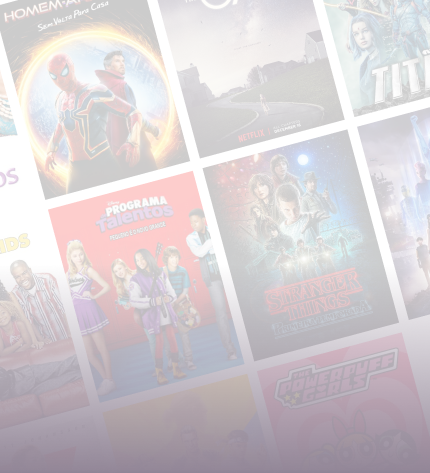
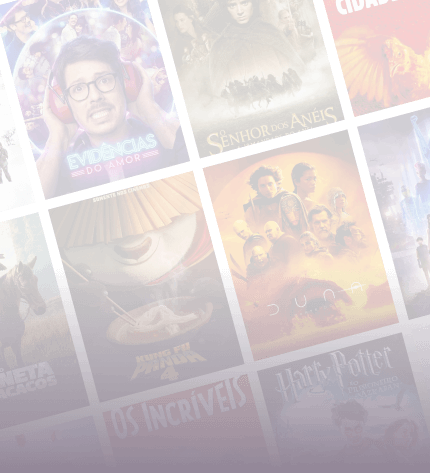
removidas imagens da pasta background, filtros corrigidos para poder funcionar com usuário deslogado

Changed region(s): [[0.0, 0.0, 1.0, 0.7696], [0.6349, 0.0, 0.6953, 0.0296], [0.2116, 0.6808, 0.2419, 0.7104]]

diff --git a/src/components/modais/filtros/index.jsx b/src/components/modais/filtros/index.jsx
@@ -31,11 +31,15 @@ const ModalFiltros = ({ onClose, user, onSelectMovie }) => {
   const [selectedCountry, setSelectedCountry] = useState(""); // Estado para armazenar o país selecionado
   const [assistir, setAssistir] = useState({});
   const [visto, setVisto] = useState({}); // Exemplo de definição
+  const isLoggedIn = Boolean(user);
 
   // define se desktop ou mobile
   const isMobile = useIsMobile();
 
   useEffect(() => {
+    const controller = new AbortController(); // Criar o controlador
+    const { signal } = controller; // Extrair o sinal
+
     const fetchCertifications = async () => {
       try {
         const apiKey = "c95de8d6070dbf1b821185d759532f05";
@@ -43,7 +47,8 @@ const ModalFiltros = ({ onClose, user, onSelectMovie }) => {
           "https://api.themoviedb.org/3/certification/movie/list";
 
         const response = await fetch(
-          `${certificationEndpoint}?api_key=${apiKey}&language=pt-BR&region=BR`
+          `${certificationEndpoint}?api_key=${apiKey}&language=pt-BR&region=BR`,
+          { signal }
         );
         const data = await response.json();
 
@@ -56,6 +61,9 @@ const ModalFiltros = ({ onClose, user, onSelectMovie }) => {
     };
 
     fetchCertifications();
+    return () => {
+      controller.abort(); // Abortar requisições pendentes quando o componente for desmontado
+    };
   }, []);
 
   const fetchMoviesByCertification = async (certification) => {
@@ -323,7 +331,7 @@ const ModalFiltros = ({ onClose, user, onSelectMovie }) => {
 
   // Função para aplicar filtros
   const aplicarFiltro = async () => {
-    const { visto, assistir } = user;
+    const { visto, assistir } = user || {};
     const filters = [];
     const url = buildUrl();
     console.log("URL da requisição:", url);
@@ -418,54 +426,58 @@ const ModalFiltros = ({ onClose, user, onSelectMovie }) => {
             ref={modalRef}
             className={`${styles.contModal} ${closing && styles.close}`}
           >
-            {isMobile ? null : (
-              <div className={styles.tituloFiltros}>
-                <h2>Filtros</h2>
-              </div>
-            )}
-            <div className={styles.separador}>
-              <h3>Exibir filmes que</h3>
+            {isLoggedIn && (
+              <>
+                {isMobile ? null : (
+                  <div className={styles.tituloFiltros}>
+                    <h2>Filtros</h2>
+                  </div>
+                )}
+                <div className={styles.separador}>
+                  <h3>Exibir filmes que</h3>
 
-              <div className={styles.seletor}>
-                <div className={styles.opcao}>
-                  <input type="radio" id="todos" name="status" />
-                  <label htmlFor="todos">Todos</label>
+                  <div className={styles.seletor}>
+                    <div className={styles.opcao}>
+                      <input type="radio" id="todos" name="status" />
+                      <label htmlFor="todos">Todos</label>
+                    </div>
+                    <div className={styles.opcao}>
+                      <input
+                        type="radio"
+                        id="NaoAssisti"
+                        name="status"
+                        value="NaoAssisti"
+                        onChange={() => setSelectedStatus("NaoAssisti")}
+                        checked={selectedStatus === "NaoAssisti"}
+                      />
+                      <label htmlFor="NaoAssisti">Quero assistir</label>
+                    </div>
+                    <div className={styles.opcao}>
+                      <input
+                        type="radio"
+                        id="JaAssisti"
+                        name="status"
+                        value="JaAssisti"
+                        onChange={() => setSelectedStatus("JaAssisti")}
+                        checked={selectedStatus === "JaAssisti"}
+                      />
+                      <label htmlFor="JaAssisti">Já assisti</label>
+                    </div>
+                    <div className={styles.opcao}>
+                      <input
+                        type="radio"
+                        id="favoritos"
+                        name="status"
+                        value="favoritos"
+                        onChange={() => setSelectedStatus("favoritos")}
+                        checked={selectedStatus === "favoritos"}
+                      />
+                      <label htmlFor="favoritos">Meus favoritos</label>
+                    </div>
+                  </div>
                 </div>
-                <div className={styles.opcao}>
-                  <input
-                    type="radio"
-                    id="NaoAssisti"
-                    name="status"
-                    value="NaoAssisti"
-                    onChange={() => setSelectedStatus("NaoAssisti")}
-                    checked={selectedStatus === "NaoAssisti"}
-                  />
-                  <label htmlFor="NaoAssisti">Quero assistir</label>
-                </div>
-                <div className={styles.opcao}>
-                  <input
-                    type="radio"
-                    id="JaAssisti"
-                    name="status"
-                    value="JaAssisti"
-                    onChange={() => setSelectedStatus("JaAssisti")}
-                    checked={selectedStatus === "JaAssisti"}
-                  />
-                  <label htmlFor="JaAssisti">Já assisti</label>
-                </div>
-                <div className={styles.opcao}>
-                  <input
-                    type="radio"
-                    id="favoritos"
-                    name="status"
-                    value="favoritos"
-                    onChange={() => setSelectedStatus("favoritos")}
-                    checked={selectedStatus === "favoritos"}
-                  />
-                  <label htmlFor="favoritos">Meus favoritos</label>
-                </div>
-              </div>
-            </div>
+              </>
+            )}
 
             <div className={styles.separador}>
               <h3>Disponível nos cinemas</h3>
@@ -492,22 +504,6 @@ const ModalFiltros = ({ onClose, user, onSelectMovie }) => {
             <div className={styles.separador}>
               <h3>Streaming</h3>
               <div className={styles.streaming}>
-                {/* Botão "Todos" */}
-                <div className={styles.opcao}>
-                  <input
-                    type="radio"
-                    id="stodos"
-                    name="servicos"
-                    value=""
-                    checked={providerId === null} // Verifica se nenhum provedor está selecionado
-                    onChange={() => setProviderId(null)} // Define providerId como null
-                  />
-                  <label htmlFor="stodos" className={styles.opcaoTodos}>
-                    Todos
-                  </label>
-                </div>
-
-                {/* Outros serviços de streaming */}
                 {streamingServices.map((service) => (
                   <div className={styles.opcao} key={service.provider_id}>
                     <input
@@ -515,9 +511,9 @@ const ModalFiltros = ({ onClose, user, onSelectMovie }) => {
                       id={service.provider_name}
                       name="servicos"
                       value={service.provider_id}
-                      checked={providerId === service.provider_id} // Verifica se o serviço está selecionado
                       onChange={() => setProviderId(service.provider_id)}
                     />
+
                     <label htmlFor={service.provider_name}>
                       <img
                         src={service.logo_path}
@@ -533,20 +529,6 @@ const ModalFiltros = ({ onClose, user, onSelectMovie }) => {
               <h3>Gênero</h3>
 
               <div className={styles.seletor}>
-                {/* Botão "Todos" */}
-                <div className={styles.opcao}>
-                  <input
-                    type="radio"
-                    id="todos-generos"
-                    name="genero"
-                    value=""
-                    checked={selectedGenre === null} // Verifica se nenhum gênero está selecionado
-                    onChange={() => setSelectedGenre(null)} // Define selectedGenre como null
-                  />
-                  <label htmlFor="todos-generos">Todos</label>
-                </div>
-
-                {/* Outros gêneros */}
                 {genres.map((genre) => (
                   <div className={styles.opcao} key={genre.id}>
                     <input
@@ -554,7 +536,6 @@ const ModalFiltros = ({ onClose, user, onSelectMovie }) => {
                       id={`genre-${genre.id}`}
                       name="genero"
                       value={genre.id}
-                      checked={selectedGenre === genre.id} // Verifica se o gênero está selecionado
                       onChange={() => setSelectedGenre(genre.id)}
                     />
                     <label htmlFor={`genre-${genre.id}`}>{genre.name}</label>

diff --git a/src/pages/index.js b/src/pages/index.js
@@ -24,7 +24,6 @@ import ModalAvaliar from "@/components/modais/avaliar-filmes";
 import Classificacao from "@/components/detalhesfilmes/classificacao";
 import FundoTitulosDesktop from "@/components/fundotitulos-desktop";
 import Loading from "@/components/loading";
-import Image from "next/image";
 import Recomendacoes from "@/components/detalhesfilmes/recomendacoes";
 
 const inter = Inter({ subsets: ["latin"] });
